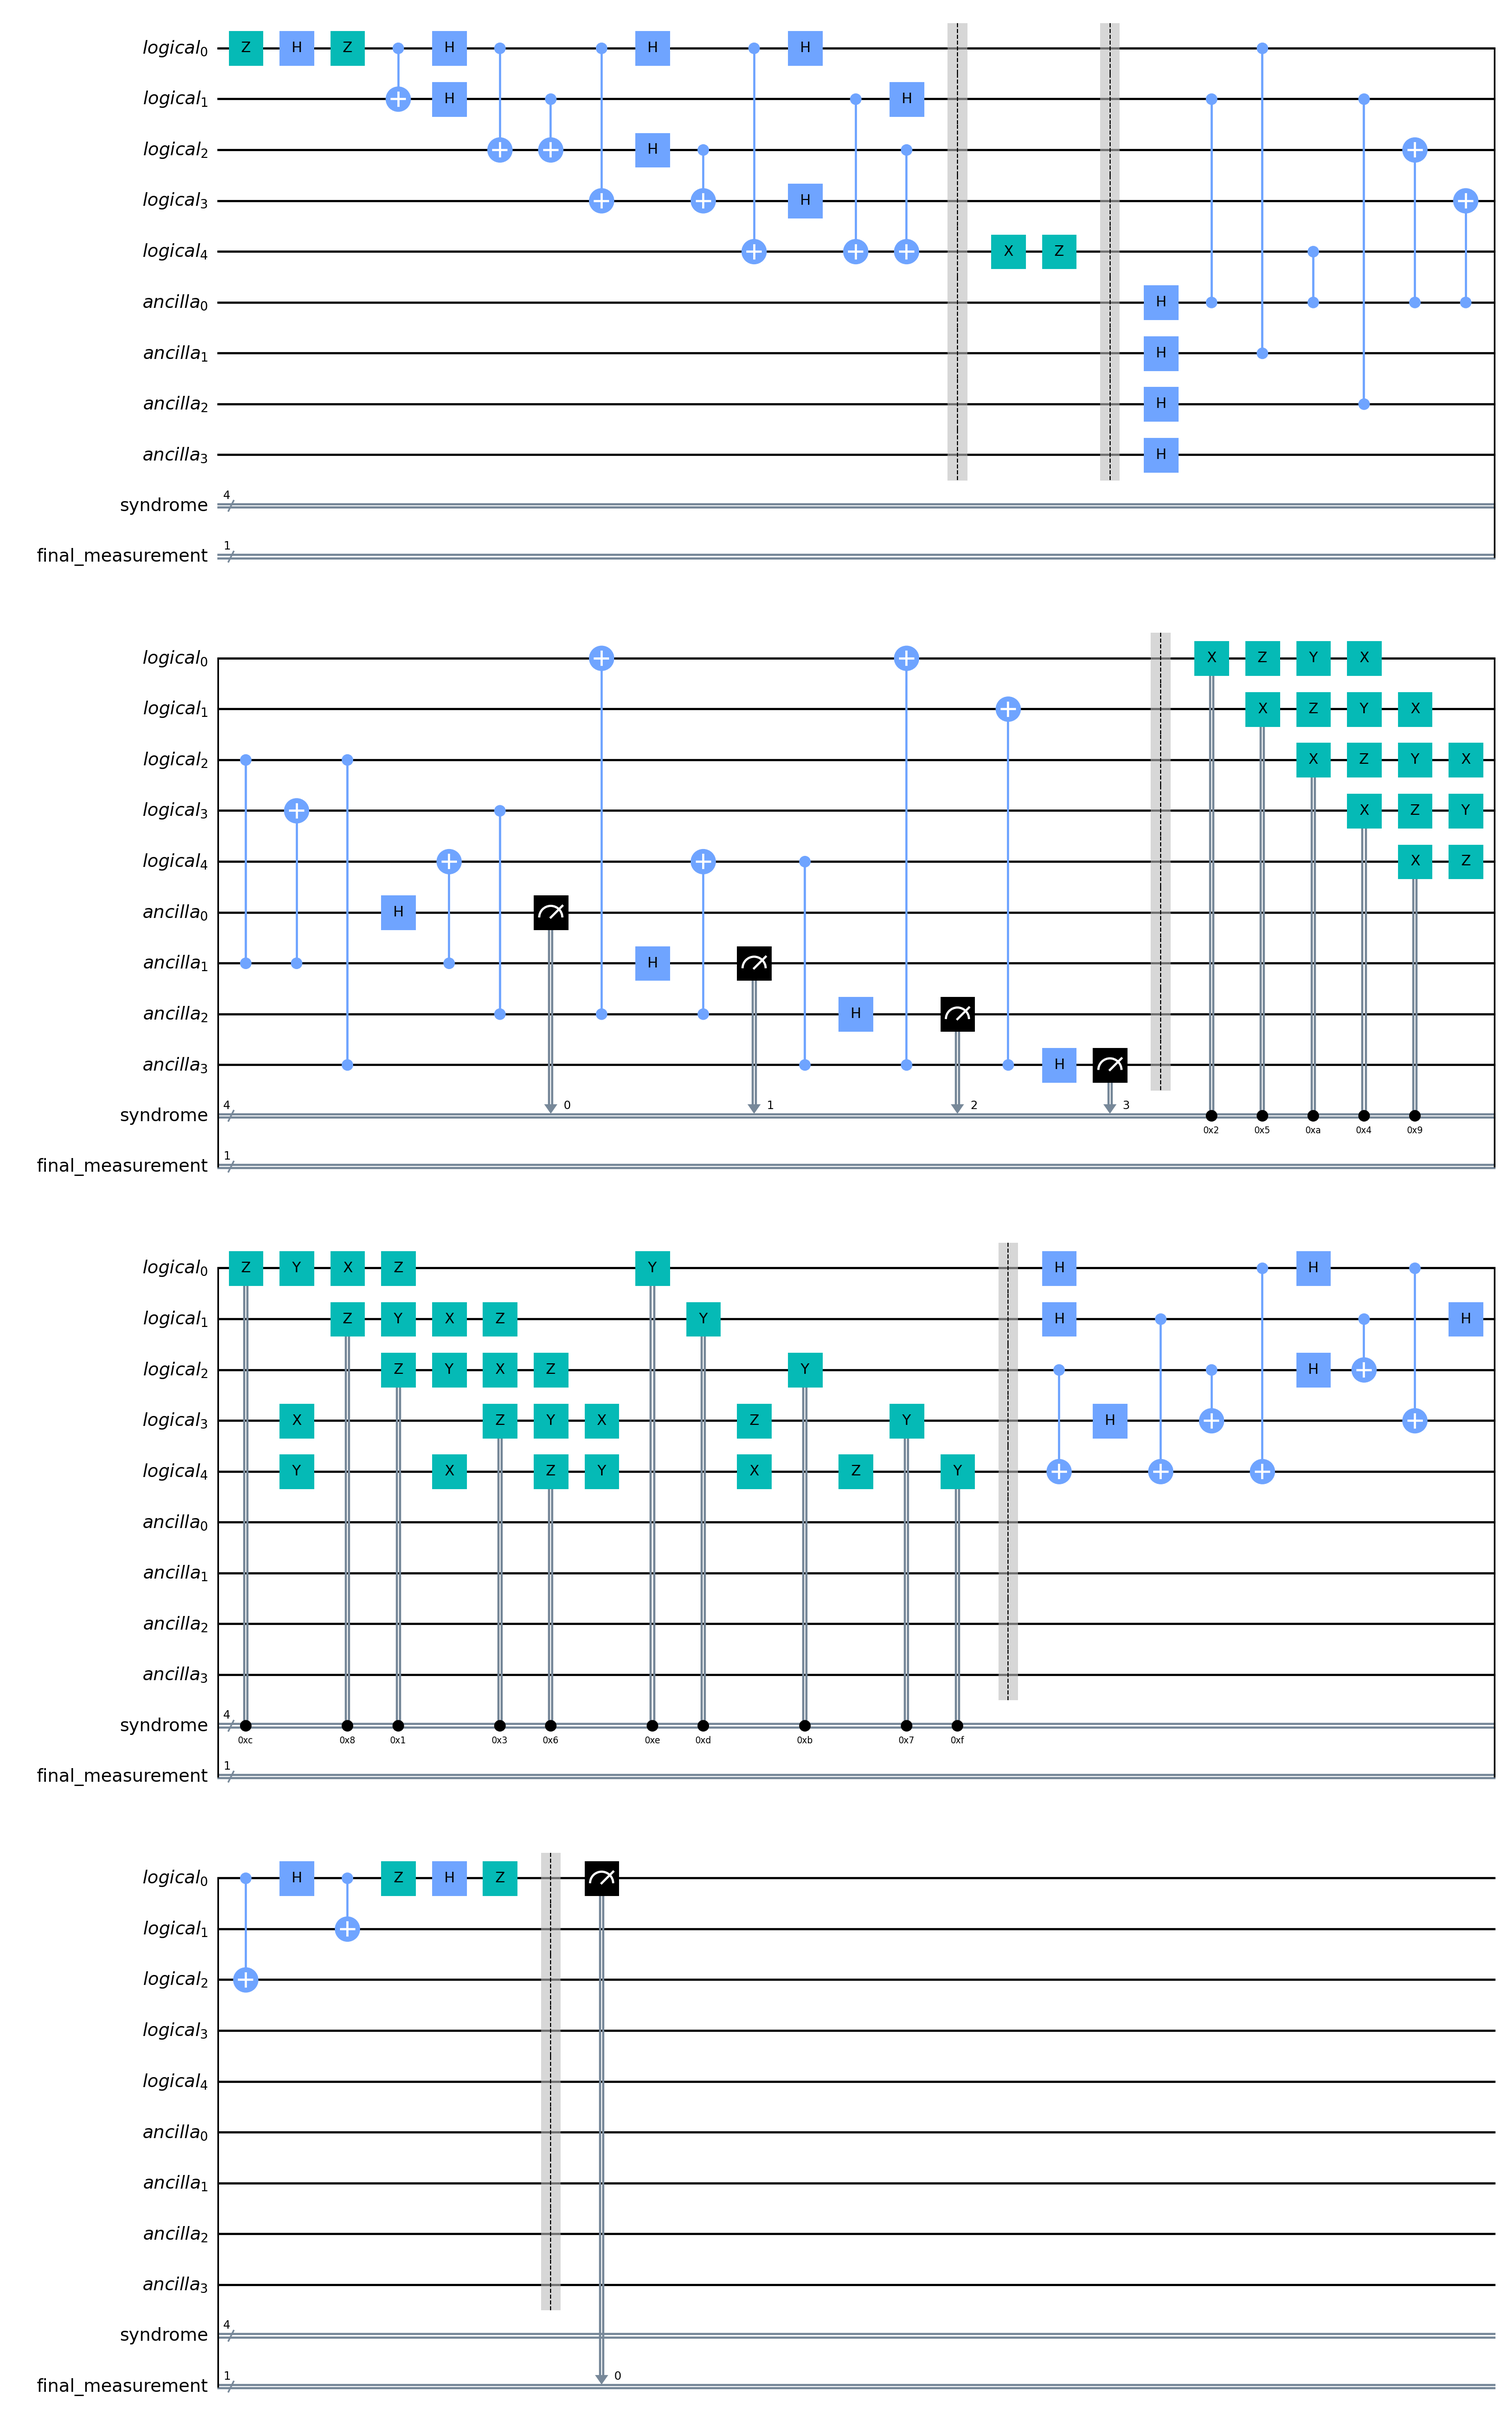
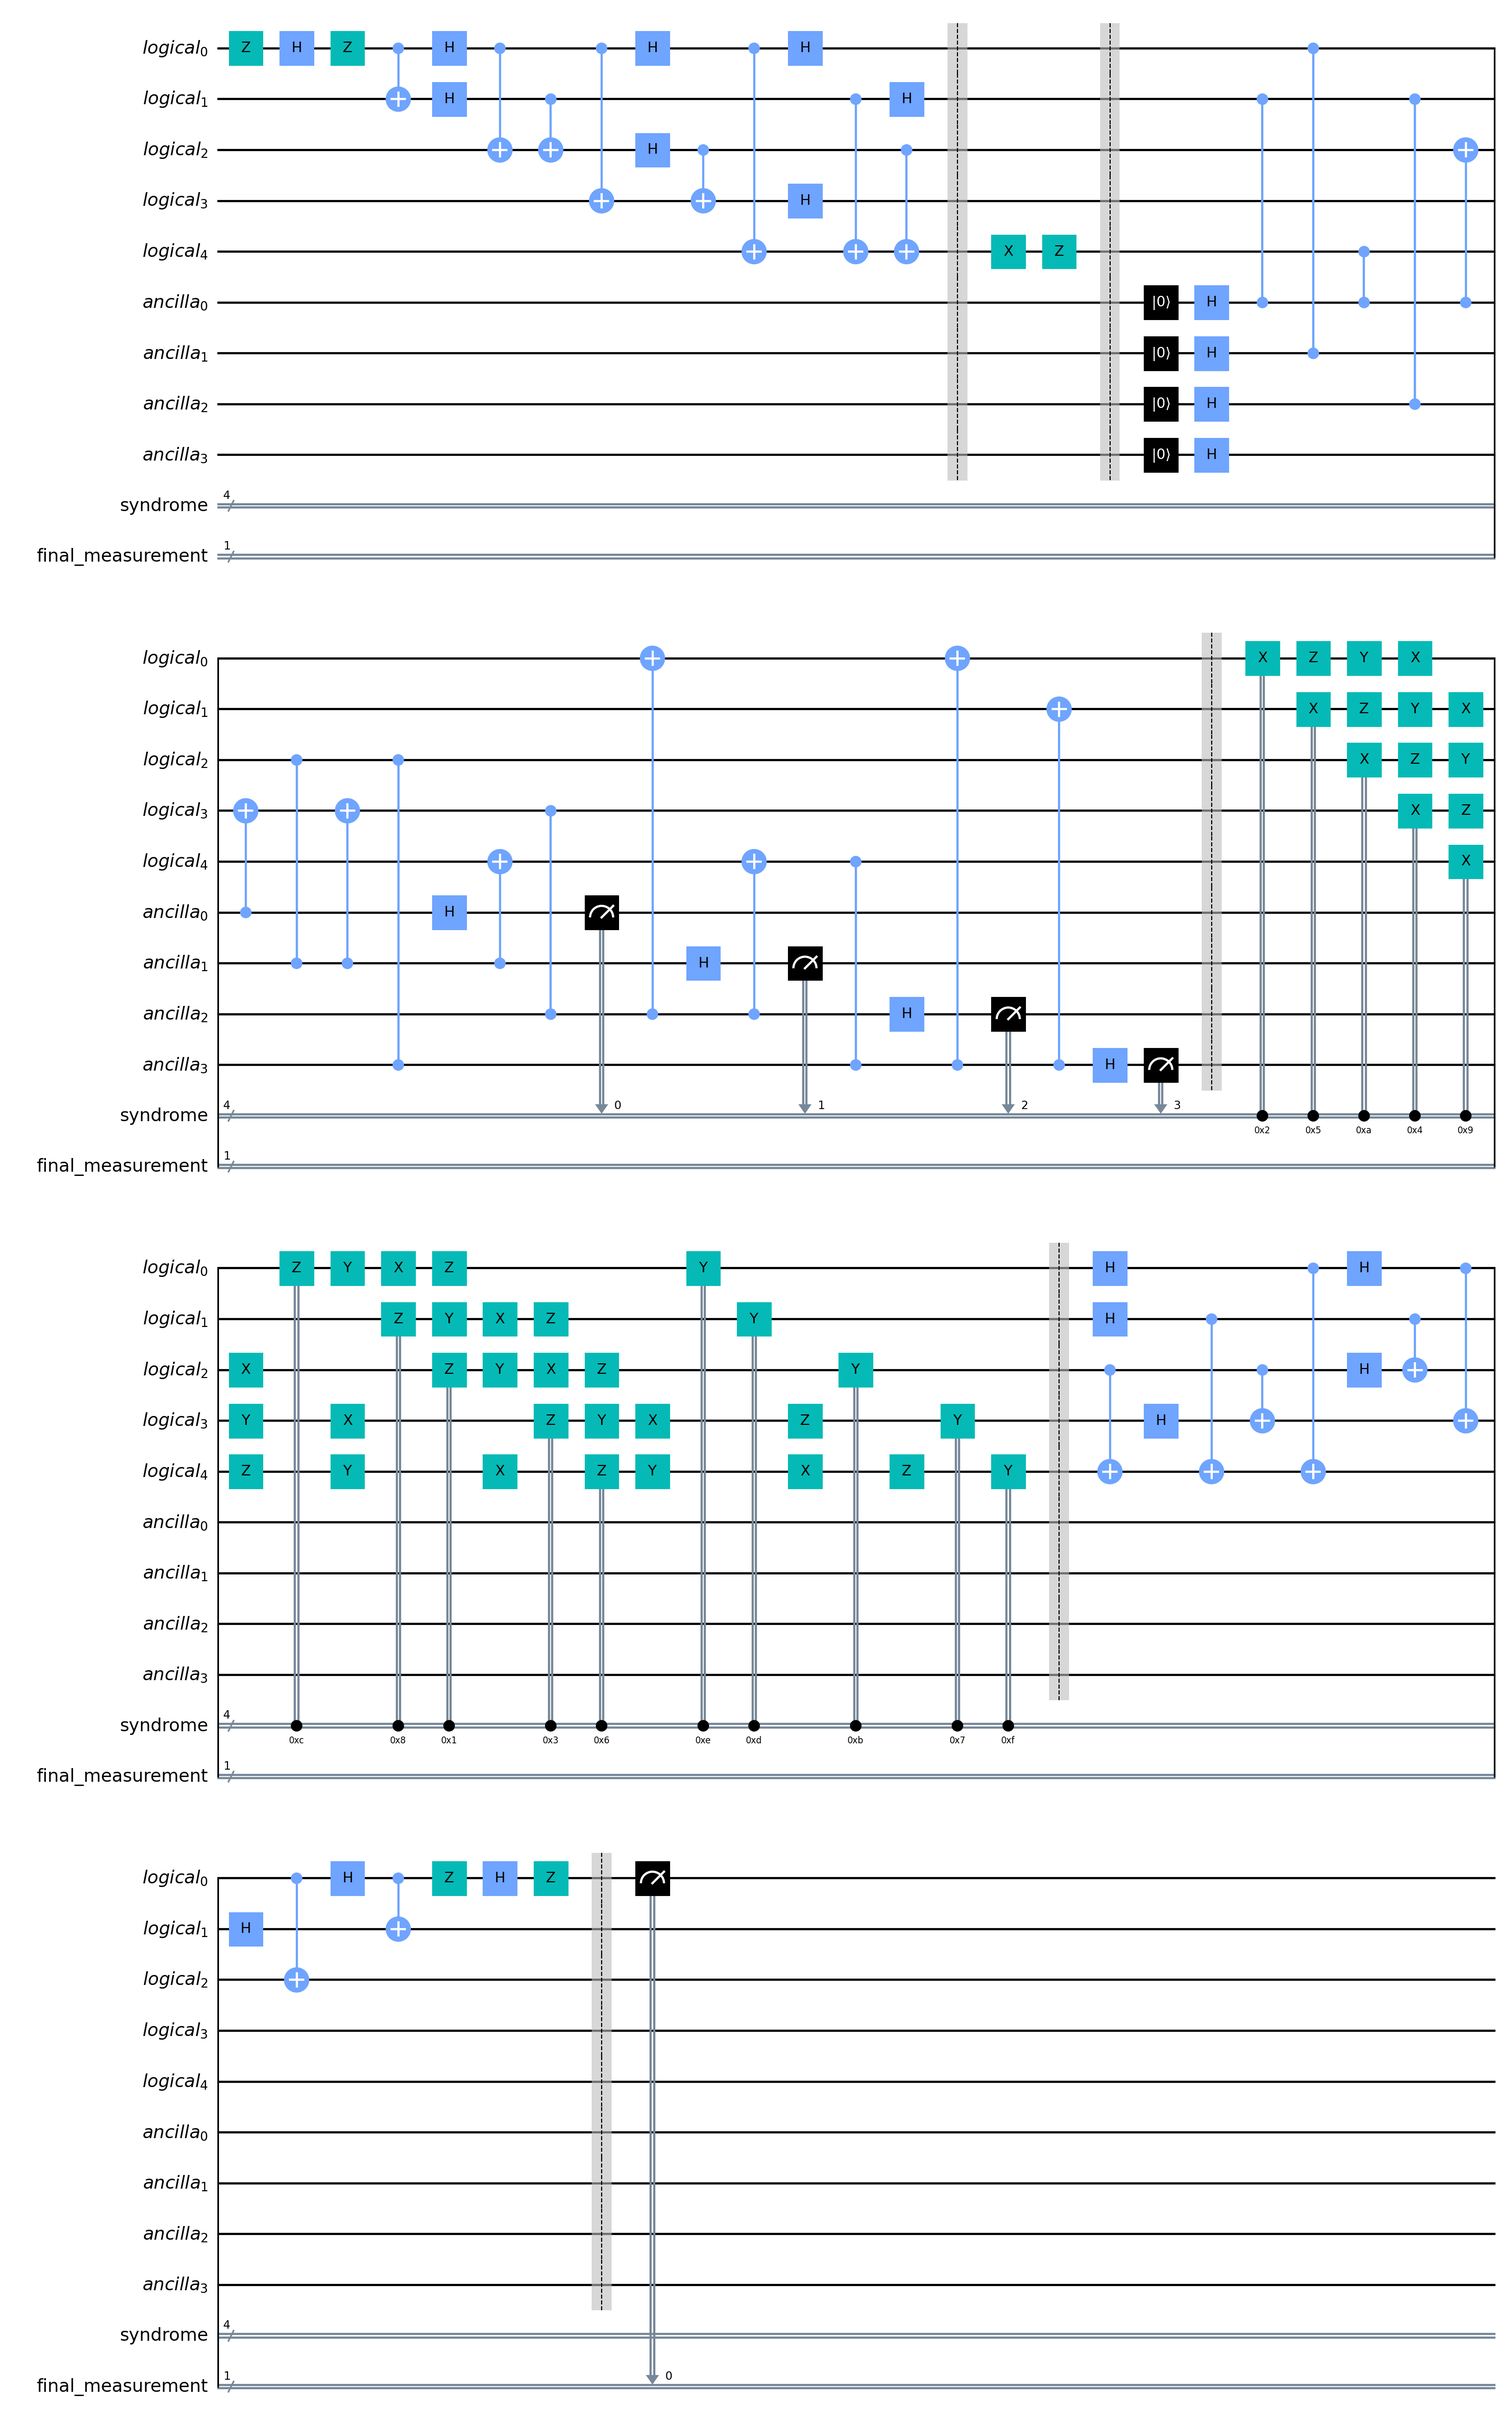
Some corrections
- Added initialization of ancilla qubits to |0> at the beginning of syndrome measurement subcircuits in order to avoid noise affecting on them before
- For some codes, circuits' images have been divided into subcircuits to increase readability of schemes
- Number of operations (gates) in scheme is now printed along with execution
- Some minor other fixes

diff --git a/Python_Project/Codes/SteaneCode/syndrome_measurement.py b/Python_Project/Codes/SteaneCode/syndrome_measurement.py
@@ -1,6 +1,9 @@
 from qiskit import QuantumCircuit, QuantumRegister, ClassicalRegister
 
 def add_syndrome_measurement_6_ancilla_subcircuit(circuit: QuantumCircuit, logical: QuantumRegister, ancilla: QuantumRegister, x_syndrome: ClassicalRegister, z_syndrome: ClassicalRegister) -> None:
+
+    circuit.reset(ancilla[0:6])
+
     circuit.cx(logical[0], ancilla[0])
     circuit.cx(logical[2], ancilla[0])
     circuit.cx(logical[4], ancilla[0])
@@ -44,6 +47,9 @@ def add_syndrome_measurement_6_ancilla_subcircuit(circuit: QuantumCircuit, logic
 
 
 def add_syndrome_measurement_3_ancilla_reset_subcircuit(circuit: QuantumCircuit, logical: QuantumRegister, ancilla: QuantumRegister, x_syndrome: ClassicalRegister, z_syndrome: ClassicalRegister) -> None:
+
+    circuit.reset(ancilla[0:3])
+
     circuit.cx(logical[0], ancilla[0])
     circuit.cx(logical[2], ancilla[0])
     circuit.cx(logical[4], ancilla[0])

diff --git a/Python_Project/Codes/steane_code_6_ancilla.py b/Python_Project/Codes/steane_code_6_ancilla.py
@@ -65,7 +65,14 @@ construct_circuit(circuit, [
     lambda: add_decoding_subcircuit(circuit, q_logical)
 ])
 
+#here final measurement
+
+circuit.barrier()
+circuit.measure(q_logical[0], fin_m)
+
 circuit.draw(output='mpl', filename='../Circuits/steane_code_6_ancilla.png') #Draws an image of the circuit
+
+print(dict(circuit.count_ops()))
 
 job = execute(circuit, backend, shots=1000)
 

diff --git a/Python_Project/Codes/FiveQubitCode/syndrome_measurement.py b/Python_Project/Codes/FiveQubitCode/syndrome_measurement.py
@@ -2,6 +2,8 @@ from qiskit import QuantumCircuit, QuantumRegister, ClassicalRegister
 
 def add_syndrome_measurement_4_ancilla_subcircuit(circuit: QuantumCircuit, logical: QuantumRegister, ancilla: QuantumRegister, syndrome: ClassicalRegister) -> None:
 
+    circuit.reset(ancilla[0:4])
+
     circuit.h(ancilla[0])
     circuit.h(ancilla[1])
     circuit.h(ancilla[2])

diff --git a/Python_Project/Codes/sign_flip_code_in_place.py b/Python_Project/Codes/sign_flip_code_in_place.py
@@ -46,7 +46,9 @@ circuit.ccx(q[1],q[2],q[0])
 
 circuit.measure(q[0],c[0])
 
-circuit.draw(output='mpl',filename='sign_flip_code_in_place.png') #Draws an image of the circuit
+circuit.draw(output='mpl',filename='../Circuits/sign_flip_code_in_place.png') #Draws an image of the circuit
+
+print(dict(circuit.count_ops()))
 
 job = execute(circuit, backend, shots=1000)
 

diff --git a/Python_Project/Codes/shorcode_in_place.py b/Python_Project/Codes/shorcode_in_place.py
@@ -100,7 +100,9 @@ circuit.barrier(q)
 
 circuit.measure(q[0],c[0])
 
-circuit.draw(output='mpl',filename='shorcode_in_place.png') #Draws an image of the circuit
+circuit.draw(output='mpl',filename='../Circuits/shorcode_in_place.png') #Draws an image of the circuit
+
+print(dict(circuit.count_ops()))
 
 job = execute(circuit, backend, shots=1000)
 

diff --git a/Python_Project/Common/utils.py b/Python_Project/Common/utils.py
@@ -3,7 +3,7 @@ from qiskit import QuantumCircuit
 
 def construct_circuit(circuit: QuantumCircuit, subcircuits_appending_functions: list) -> None:
     subcircuits_appending_functions[0]()
-    for x in subcircuits_appending_functions[1:]:
+    for f in subcircuits_appending_functions[1:]:
         circuit.barrier()
-        x()
+        f()
 

diff --git a/Python_Project/Codes/steane_code_3_ancilla_reset.py b/Python_Project/Codes/steane_code_3_ancilla_reset.py
@@ -59,6 +59,8 @@ circuit.measure(q_logical[0], fin_m)
 
 circuit.draw(output='mpl', filename='../Circuits/steane_code_3_ancilla_reset.png') #Draws an image of the circuit
 
+print(dict(circuit.count_ops()))
+
 job = execute(circuit, backend, shots=1000)
 
 job_monitor(job)

diff --git a/Python_Project/Codes/five_qubits_code.py b/Python_Project/Codes/five_qubits_code.py
@@ -58,6 +58,8 @@ circuit.measure(q_logical[0], fin_m)
 
 circuit.draw(output='mpl', filename='../Circuits/5_qubits_code.png') #Draws an image of the circuit
 
+print(dict(circuit.count_ops()))
+
 job = execute(circuit, backend, shots=1000)
 
 job_monitor(job)

diff --git a/Python_Project/Codes/bit_flip_code_in_place.py b/Python_Project/Codes/bit_flip_code_in_place.py
@@ -40,6 +40,8 @@ circuit.measure(q[0],c[0])
 
 circuit.draw(output='mpl', filename='../Circuits/bit_flip_code_in_place.png') #Draws an image of the circuit
 
+print(dict(circuit.count_ops()))
+
 job = execute(circuit, backend, shots=1000)
 
 job_monitor(job)
